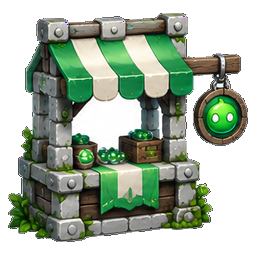
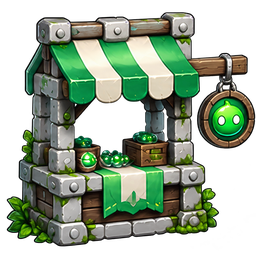
Arrange cover wallet and chest under compact Shovey titles

diff --git a/tests/header_layout_ui_test.py b/tests/header_layout_ui_test.py
@@ -1,0 +1,111 @@
+"""Exercise the production cover header and shop routes on a private display."""
+import argparse
+import json
+import os
+from pathlib import Path
+import struct
+import subprocess
+import sys
+import tempfile
+import time
+
+
+def main():
+    parser = argparse.ArgumentParser(description=__doc__)
+    parser.add_argument('--binary', type=Path, required=True)
+    parser.add_argument('--driver-source', type=Path, required=True)
+    args = parser.parse_args()
+    assert int(os.environ['DISPLAY'].split(':')[-1].split('.')[0]) >= 400
+    assert os.environ['YUE_DESKTOP_RECOVERY'] == '0'
+    root = Path(__file__).resolve().parents[1]
+    output = root / 'work/header-layout-ui-test'
+    subprocess.run(['git', 'check-ignore', '-q', str(output)], cwd=root, check=True)
+    output.mkdir(parents=True, exist_ok=True)
+    sys.path.insert(0, str(args.driver_source.resolve()))
+    from ui_driver import UiDriver
+
+    def separated(a, b):
+        return (a['x'] + a['width'] <= b['x'] or b['x'] + b['width'] <= a['x'] or
+                a['y'] + a['height'] <= b['y'] or b['y'] + b['height'] <= a['y'])
+
+    for width, height in ((320, 640), (900, 640)):
+        with tempfile.TemporaryDirectory(prefix='profile-', dir=output) as folder:
+            profile = Path(folder)
+            records = profile / 'games/arcade.shovey/records'
+            records.mkdir(parents=True)
+            today = int(time.time()) // 86400
+            # A real valid guest record, separate from every owner account.
+            plan = struct.pack('<BHIB', 1, 1, today - 1, 1) + struct.pack('<I', 20)
+            (records / 'earned.shovey.daily-chest.guest.v1').write_text('c1:' + plan.hex())
+            (records / 'shop.v1.guest').write_text(json.dumps(
+                dict(version=1, owner='', selected=0, owned=0, spent=0)))
+            (profile / 'games/arcade.shovey-player/records').mkdir(parents=True)
+            (profile / 'games/arcade.shovey-player/records/level-updates').write_text('off')
+            driver = UiDriver(profile / 'driver')
+            log_path = output / f'{width}.log'
+            with log_path.open('w') as log:
+                child = subprocess.Popen([str(args.binary.resolve())], cwd=args.binary.resolve().parent,
+                    env=os.environ | driver.environment() | {'ARCADE_DATA': str(profile), 'LANG': 'en_US.UTF-8'},
+                    stdout=log, stderr=subprocess.STDOUT)
+                driver.attach(child, log_path)
+                try:
+                    driver.wait(label='Play', role='button', timeout=60)
+                    if driver.find(label='Download new levels when they come out?', role='text'):
+                        driver.press(label='Not now', role='button')
+                    windows = subprocess.check_output(
+                        ['xdotool', 'search', '--onlyvisible', '--pid', str(child.pid)], text=True).split()
+                    assert len(windows) == 1
+                    window = windows[0]
+                    assert subprocess.check_output(['xdotool', 'getwindowpid', window], text=True).strip() == str(child.pid)
+                    subprocess.run(['xdotool', 'windowsize', '--sync', window, str(width), str(height)], check=True)
+                    deadline = time.monotonic() + 10
+                    while driver.tree()[0]['width'] != width:
+                        assert time.monotonic() < deadline, 'Window did not resize'
+                        time.sleep(.05)
+                    market = driver.wait(key=49200, role='button')
+                    chest = driver.wait(key=49202, role='button')
+                    assert chest['x'] == market['x'] and chest['y'] >= market['y'] + market['height']
+                    coins = driver.wait(key=49211, role='text', label='20')
+                    dew = driver.wait(key=49213, role='text')
+                    assert coins['x'] > market['x'] + market['width'] and dew['x'] == coins['x']
+                    assert dew['y'] > coins['y']
+                    for button in (driver.wait(key=49204), driver.wait(key=49206)):
+                        assert separated(coins, button) and separated(dew, button)
+                    logos = [node for node in driver.tree() if node['kind'] == 'image' and
+                             119 <= node['y'] <= 121 and node['width'] <= 361]
+                    assert logos, 'Compact cover logo is missing'
+                    for logo in logos:
+                        assert separated(logo, market) and separated(logo, chest)
+                        assert logo['width'] <= (width * .58 + 1 if width < 600 else 361)
+                    subprocess.run(['import', '-window', window, str(output / f'{width}.png')], check=True)
+                    driver.press(label='Next', role='button')
+                    driver.wait(label='Open', role='button')
+                    driver.wait_idle(frames=3, timeout=5)
+                    editor_logos = [node for node in driver.tree() if node['kind'] == 'image' and
+                                    119 <= node['y'] <= 121 and node['width'] <= 361]
+                    assert editor_logos and any('Editor' in node['label'] for node in editor_logos)
+                    assert not driver.find(label='Editor', role='text'), 'Redundant caption returned'
+                    subprocess.run(['import', '-window', window, str(output / f'{width}-editor.png')], check=True)
+                    driver.press(label='Previous', role='button')
+                    driver.wait(label='Play', role='button')
+                    for key in (49200, 49202):
+                        driver.press(key=key, role='button')
+                        driver.wait(key=61101, role='button', timeout=60)
+                        if key == 49202:
+                            driver.press(key=63002, role='button')
+                        driver.press(key=61101, role='button')
+                        driver.wait(key=49200, role='button')
+                        driver.wait(key=49211, role='text', label='45' if key == 49202 else '20')
+                    driver.press(key=49204, role='button')
+                    driver.key('escape')
+                    driver.wait(key=49200, role='button')
+                    assert child.poll() is None
+                finally:
+                    if child.poll() is None:
+                        child.terminate()
+                    child.wait(timeout=10)
+    print('Header local UI test passed: 320/900px layouts, compact clear titles, stored guest coins, Dew readout, Market/Chest Back and Profile navigation')
+
+
+if __name__ == '__main__':
+    main()

diff --git a/tests/shop_host_test.py b/tests/shop_host_test.py
@@ -255,12 +255,16 @@ host = (ROOT / 'src/player_host.zi').read_text()
 assert 'name == "entity.game-shop"' in host
 assert 'AppHostText(EntityGameShopAnswer(request))' in host
 assert 'AppHostText(ifx EntityShowPage(request) then "queued" else "unavailable")' in host
-assert 'shop_view' not in host and 'shop_state' not in host
+# The host wallet reads the game's existing state; routes still enter the
+# verified game, whose confirmation UI owns every purchase.
+assert 'ShopUI.Pump(' in host and 'ShopState.ShopCoins()' in host
+toolbar = function(ROOT / 'src/player_host.zi', 'CollectionToolbar')
+assert 'ShopBuy(' not in toolbar and 'ShopBuyCoins(' not in toolbar
 web = (ROOT / 'src/web/game.zi').read_text()
 assert web.index('ShoveyShopSetToday(today)') < web.index('if !AppMini() && web_covers_open')
 assert 'today := cast(s64)AppNow() / 86400' in web
 assert 'ShopUI.IsOpen()' in web and 'else { WebCovers() }' in web
-for name in ('stall', 'chest-closed', 'profile', 'trophy'):
+for name in ('stall', 'chest-closed', 'profile', 'trophy', 'coins', 'dew'):
     assert f'assets/shovey/shop/{name}.png' in host
 # The collection builder embeds the exact binary files that the toolbar reads.
 sys.path.insert(0, str(ROOT / 'scripts'))
@@ -271,7 +275,7 @@ assets = WORK / 'assets'
 byte_count = builder.stage_shop_assets(assets)
 staging = assets / 'shovey/shop'
 assert byte_count == sum(path.stat().st_size for path in assets.rglob('*') if path.is_file())
-for name in ('stall', 'chest-closed', 'chest-open', 'profile', 'trophy'):
+for name in ('stall', 'chest-closed', 'chest-open', 'profile', 'trophy', 'coins', 'dew'):
     original = ROOT / 'assets/shovey/shop' / (name + '.png')
     assert original.read_bytes() == (staging / original.name).read_bytes(), original
 for locale in (ROOT / 'src/locales').glob('*.txt'):

diff --git a/scripts/prepare-web.py b/scripts/prepare-web.py
@@ -11,6 +11,9 @@ if assets.exists():
 assets.mkdir(parents=True)
 for name in ('shovey', 'shovey-editor'):
     shutil.copytree(root / 'build/game-assets' / name / 'assets' / name, assets / name)
+# The cover keeps the editor's existing title artwork, without a caption badge.
+(assets / 'covers').mkdir()
+shutil.copyfile(root / 'assets/covers/shovey-editor-logo.png', assets / 'covers/shovey-editor-logo.png')
 # The editor reads Classic's pictures and sounds from Shovey's own folder on
 # the page, so its packed copies stay out (see EDITOR_CLASSIC).
 shutil.rmtree(assets / 'shovey-editor' / 'classic', ignore_errors=True)

diff --git a/scripts/make_shop_art.py b/scripts/make_shop_art.py
@@ -299,6 +299,10 @@ def optimized_png(image):
 def expected_outputs():
     outputs = {}
     for name, icon in cut_icons(ICON_SOURCE).items():
+        if name == "stall":
+            # Reviewed cutout keeps the serving window transparent too.
+            with Image.open(ROOT / "design/shop-stall-transparent.png") as source:
+                icon = source.convert("RGBA").resize((256, 256), Image.Resampling.LANCZOS)
         path = ROOT / f"assets/shovey/shop/{name}.png"
         outputs[path] = optimized_png(icon)
     for number, ramp in SKIN_RAMPS.items():

diff --git a/tests/assets_test.py b/tests/assets_test.py
@@ -65,6 +65,8 @@ for name in shop_icons:
         assert image.size == (256, 256) and image.mode == 'RGBA', path
         assert all(image.getpixel(corner)[3] == 0 for corner in
                    ((0, 0), (255, 0), (0, 255), (255, 255))), path
+        if name == 'stall':
+            assert image.getpixel((105, 120))[3] == 0, 'Market serving window must reveal the cover'
 
 # Lowered button walls retain a visible slab seam in every material, in both
 # orientations; they must not disappear into an ordinary floor tile.

diff --git a/scripts/player.py b/scripts/player.py
@@ -392,7 +392,7 @@ def stage_shop_assets(assets):
     total = 0
     shop_art = assets / 'shovey/shop'
     shop_art.mkdir(parents=True, exist_ok=True)
-    for name in ('stall', 'chest-closed', 'chest-open', 'profile', 'trophy'):
+    for name in ('stall', 'chest-closed', 'chest-open', 'profile', 'trophy', 'coins', 'dew'):
         source = ROOT / 'assets/shovey/shop' / (name + '.png')
         shutil.copyfile(source, shop_art / source.name)
         total += source.stat().st_size
